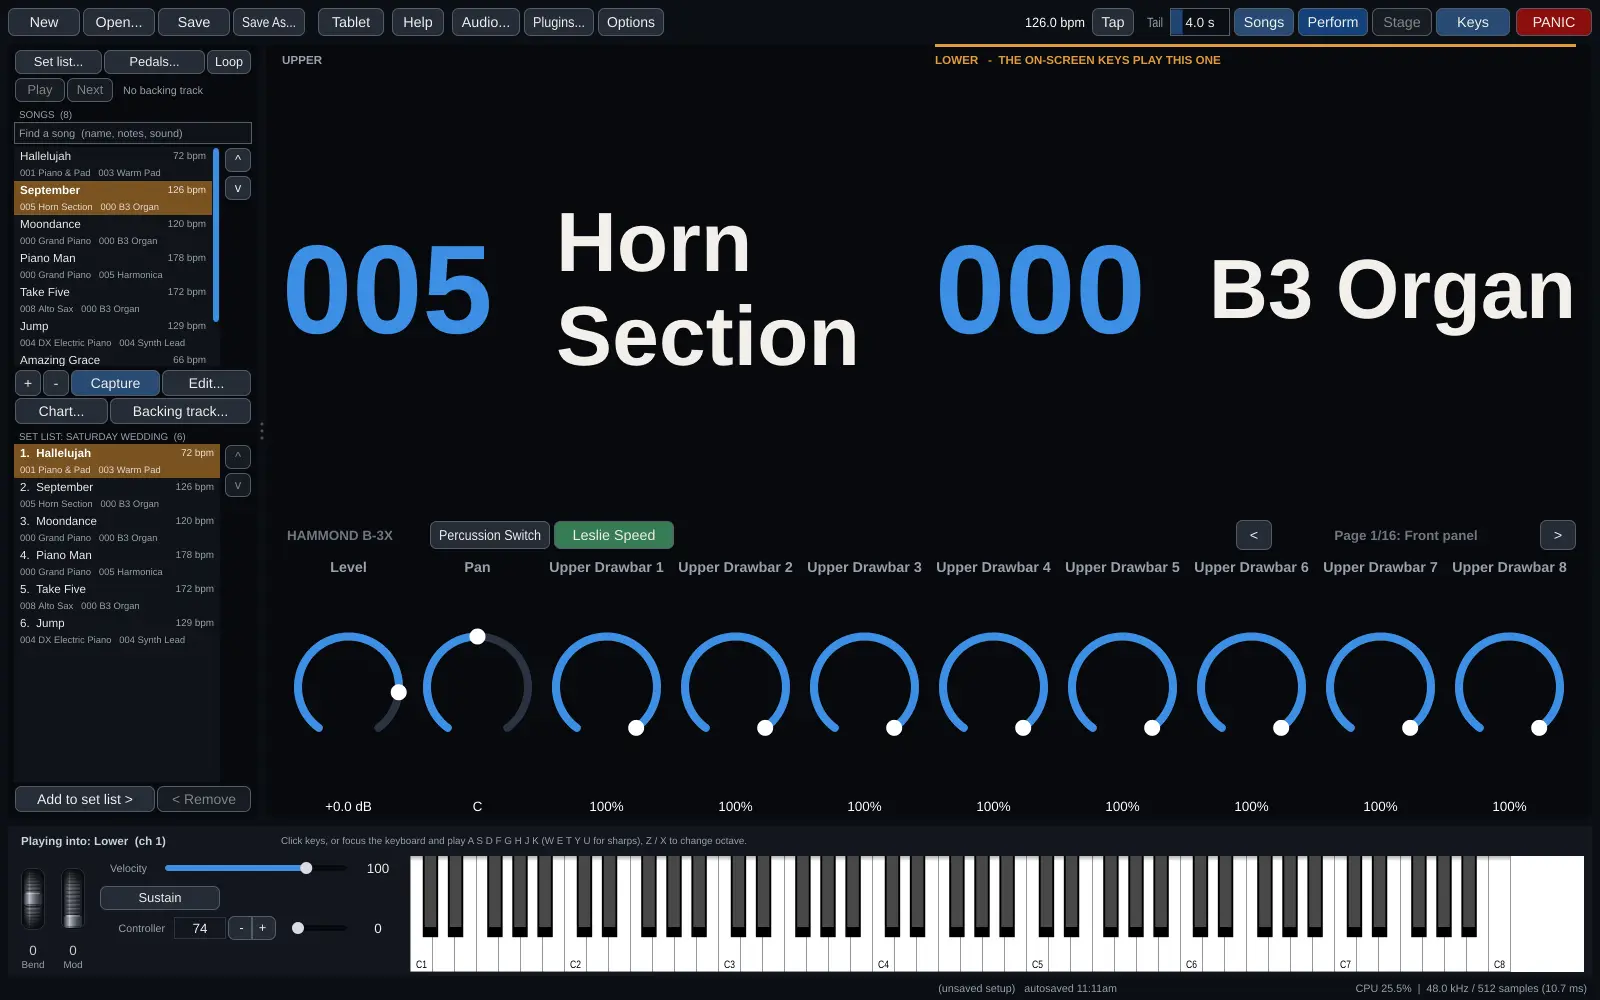
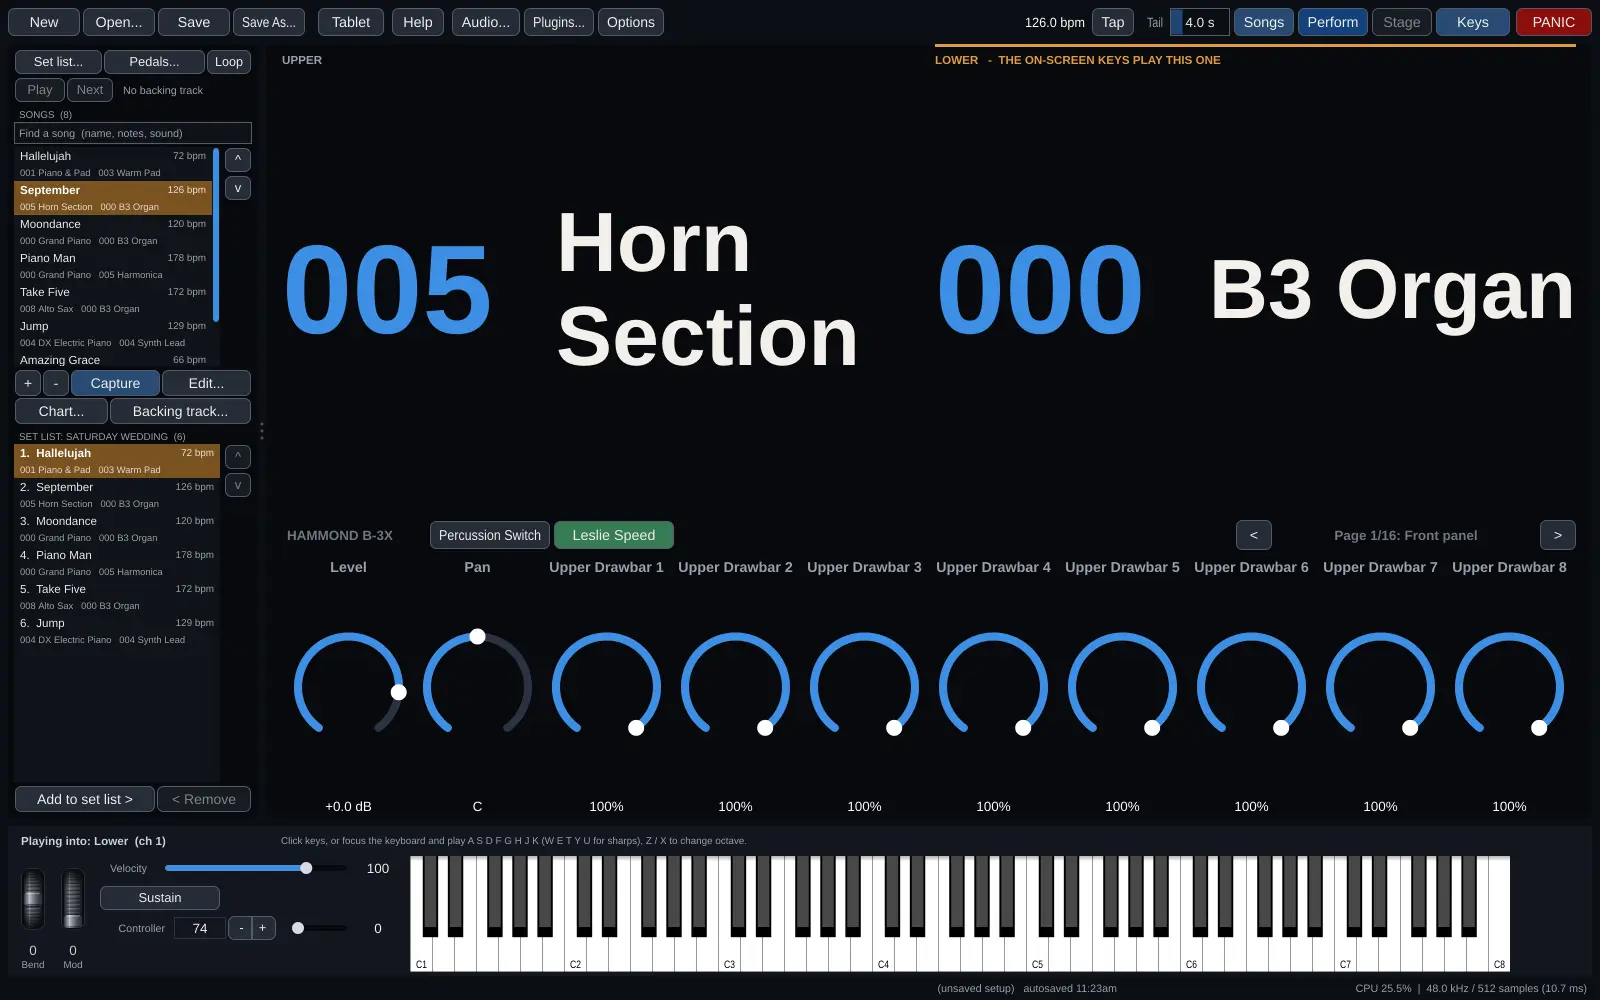
Six facts under the title, three by two, and the main screenshot plays Kontakt
128 programs and the tablet join the facts, each about the same length, so
the rows line up at every width.

Changed region(s): [[0.9375, 0.837, 1.0, 0.992], [0.5938, 0.961, 0.6875, 0.992]]

diff --git a/index.html b/index.html
@@ -62,11 +62,19 @@
     </div>
     <div>
       <dt>0 plugins</dt>
-      <dd>needed for SFZ and Decent Sampler instruments: StageRig plays them out of the box</dd>
+      <dd>needed for SFZ and Decent Sampler instruments: StageRig plays them itself, and adds a library from its .zip</dd>
+    </div>
+    <div>
+      <dt>128 programs</dt>
+      <dd>for each keyboard, microphone or guitar, changed by Program Change, a footswitch, the set list or the tablet</dd>
+    </div>
+    <div>
+      <dt>1 tablet</dt>
+      <dd>on the stand runs the show in its web browser: set list, programs, knobs and charts, with no app to install</dd>
     </div>
     <div>
       <dt>2 ways in</dt>
-      <dd>add StageRig and VST&nbsp;Environment to the Linux you have, or start fresh: a new Ubuntu&nbsp;26.04 LTS and 1 command make a finished rig</dd>
+      <dd>add StageRig and VST&nbsp;Environment to the Linux you have, or start fresh with Ubuntu&nbsp;26.04 and 1 command</dd>
     </div>
   </dl>
 </section>
@@ -108,8 +116,8 @@
 
   <figure class="shot wide">
     <img src="assets/img/stagerig.webp" width="1440" height="900" loading="lazy"
-         alt="StageRig&#39;s main window: songs and a wedding set list with tempos, two keyboards, a program list grouped by kind, and a Piano &amp; Pad program layering a built-in sampled grand piano with a Windows synth pad">
-    <figcaption>Songs and set lists, inputs, programs, and the instruments on the program in play: here a built-in sampled grand piano with a Windows synth pad layered over it.</figcaption>
+         alt="StageRig&#39;s main window: songs and a wedding set list with tempos, two keyboards, a program list grouped by kind, and a Piano &amp; Pad program: Kontakt 8, a Windows plugin, playing a grand piano with a synth pad layered over it">
+    <figcaption>Songs and set lists, inputs, programs, and the instruments on the program in play: here Kontakt 8, a Windows plugin, playing a grand piano with a synth pad layered over it.</figcaption>
   </figure>
 
   <ul class="features">

diff --git a/styles.css b/styles.css
@@ -88,7 +88,7 @@ code { font-family: var(--mono); font-size: .9em; }
 
 .proof {
   width: 100%; max-width: var(--page); margin: 64px auto 0;
-  display: grid; grid-template-columns: repeat(4, 1fr); gap: 1px;
+  display: grid; grid-template-columns: repeat(3, 1fr); gap: 1px;
   background: var(--line); border: 1px solid var(--line); border-radius: 16px; overflow: hidden;
 }
 .proof div { background: rgba(6, 18, 32, .88); padding: 22px 24px; }
